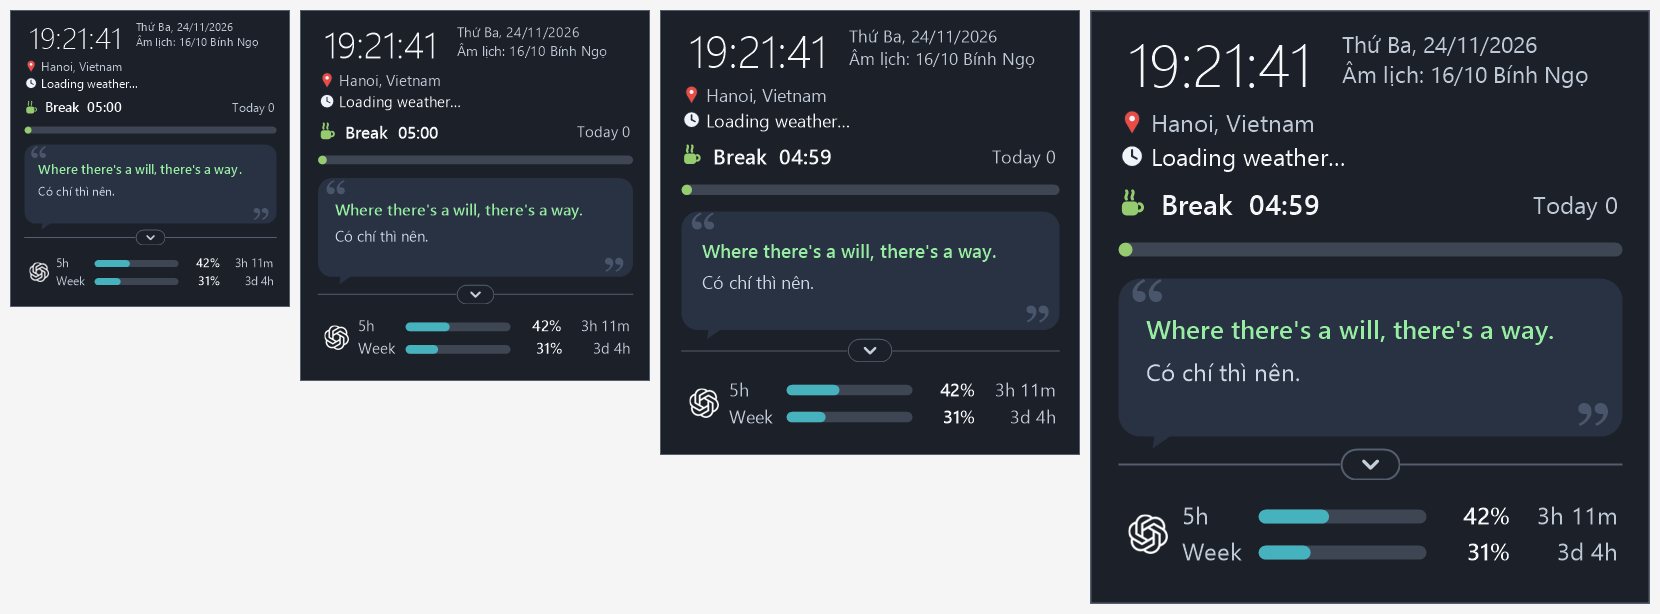
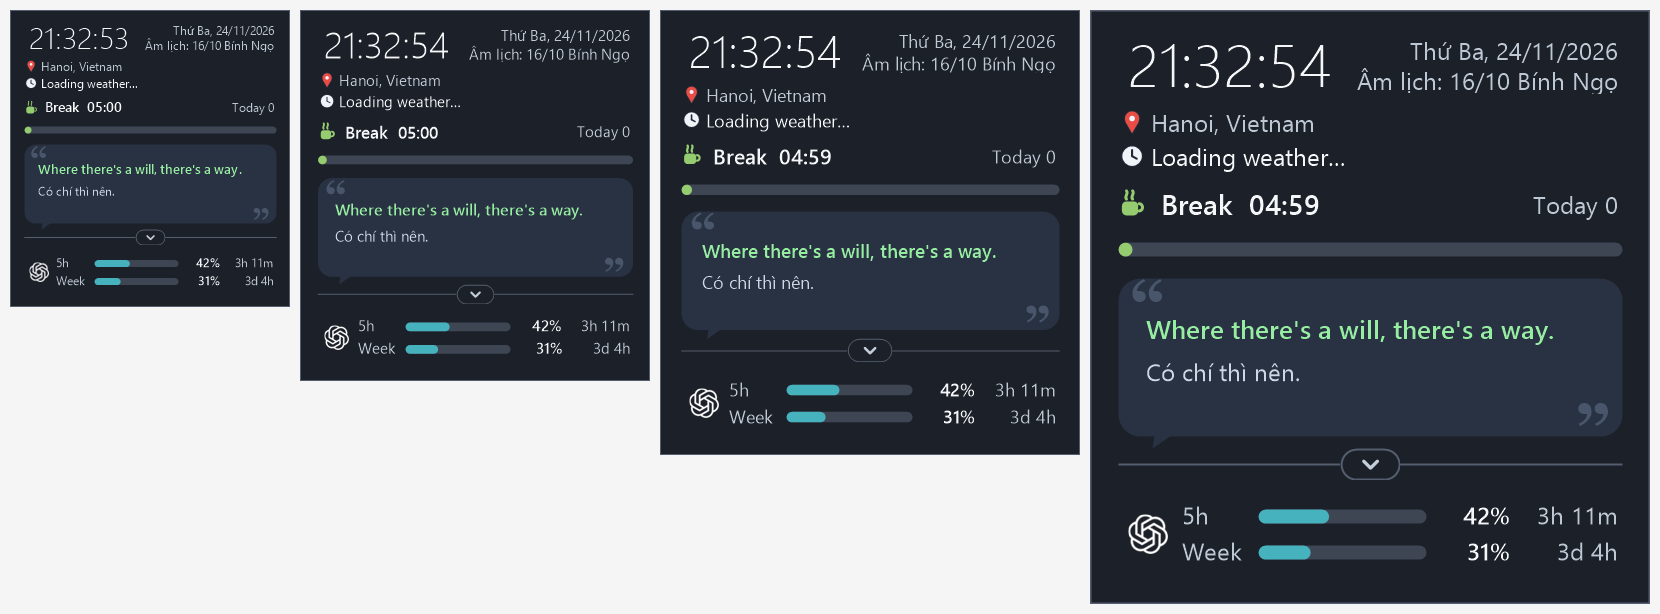
fix: put the date lines on the time row, right-aligned to the content margin
The two date lines are centred on the clock digits and end flush at the right margin (shrinking in steps keeps the right edge). Also: block instead of card in the layout setting text and a comment, and the changelog line about the focused block.

diff --git a/PomoQuote.Tests/DateBlockLayoutTests.cs b/PomoQuote.Tests/DateBlockLayoutTests.cs
@@ -1,0 +1,138 @@
+using System.Drawing;
+using System.Drawing.Text;
+using PomoQuote.Widget;
+
+namespace PomoQuote.Tests;
+
+/// <summary>The two date lines sit on the time row, centred on the clock digits, and end flush at the right content margin without touching the clock.</summary>
+public sealed class DateBlockLayoutTests
+{
+    [Theory]
+    [InlineData(90f)]
+    [InlineData(118f)]
+    [InlineData(130f)]
+    public void Both_lines_end_exactly_at_the_right_content_margin(float clockWidth)
+    {
+        for (var line = 0; line < 2; line++)
+        {
+            var rect = DateBlockLayout.Line(line, clockWidth);
+
+            Assert.Equal(UsageGeometry.WidgetWidth - UsageGeometry.Margin, rect.Right);
+            Assert.Equal(DateBlockLayout.RightEdge, rect.Right);
+            Assert.Equal(DateBlockLayout.Room(clockWidth), rect.Width);
+        }
+    }
+
+    [Fact]
+    public void The_right_edge_is_the_same_edge_as_the_quota_columns_and_the_timer_row()
+    {
+        var quotaRight = UsageGeometry.Columns(UsageGeometry.Margin + UsageGeometry.LogoColumn, UsageGeometry.CompactRowsWidth).Right;
+
+        Assert.Equal(quotaRight, DateBlockLayout.RightEdge);
+    }
+
+    [Fact]
+    public void The_block_is_centred_on_the_clock_digits_and_stays_inside_the_clock_row()
+    {
+        var first = DateBlockLayout.Line(0, 120);
+        var second = DateBlockLayout.Line(1, 120);
+
+        Assert.Equal(DateBlockLayout.DigitsCentre, (first.Top + second.Bottom) / 2f);
+        Assert.Equal(first.Bottom, second.Top); // two lines, no gap, no overlap
+        Assert.True(first.Top >= DateBlockLayout.ClockTop);
+        Assert.True(second.Bottom <= DateBlockLayout.ClockTop + DateBlockLayout.ClockHeight);
+    }
+
+    private static (float Left, float Right, float Top, float Bottom) Ink(Bitmap bitmap, Color background)
+    {
+        int left = bitmap.Width, right = -1, top = bitmap.Height, bottom = -1;
+        for (var y = 0; y < bitmap.Height; y++)
+        {
+            for (var x = 0; x < bitmap.Width; x++)
+            {
+                var p = bitmap.GetPixel(x, y);
+                if (Math.Abs(p.R - background.R) + Math.Abs(p.G - background.G) + Math.Abs(p.B - background.B) < 90) continue;
+                left = Math.Min(left, x);
+                right = Math.Max(right, x);
+                top = Math.Min(top, y);
+                bottom = Math.Max(bottom, y);
+            }
+        }
+
+        return (left, right + 1, top, bottom + 1);
+    }
+
+    [Theory]
+    [InlineData(1f)]
+    [InlineData(1.25f)]
+    [InlineData(1.5f)]
+    [InlineData(2f)]
+    public void On_screen_the_widest_clock_ends_before_the_date_starts_and_the_digits_centre_matches_the_block(float unit)
+    {
+        var background = Color.FromArgb(28, 32, 40);
+        using var probe = new Font("Segoe UI Light", 30f, FontStyle.Regular, GraphicsUnit.Pixel);
+        if (probe.Name != "Segoe UI Light") return; // the design font is not installed on this machine
+        using var bitmap = new Bitmap((int)(UsageGeometry.WidgetWidth * unit), (int)(60 * unit));
+        float widest;
+        using (var graphics = Graphics.FromImage(bitmap))
+        using (var font = new Font("Segoe UI Light", 30 * unit, FontStyle.Regular, GraphicsUnit.Pixel))
+        using (var format = new StringFormat(StringFormat.GenericTypographic) { FormatFlags = StringFormatFlags.NoWrap | StringFormatFlags.MeasureTrailingSpaces })
+        {
+            graphics.Clear(background);
+            graphics.TextRenderingHint = TextRenderingHint.AntiAliasGridFit;
+            widest = graphics.MeasureString("88:88:88", font, int.MaxValue, format).Width / unit;
+            using var brush = new SolidBrush(Color.White);
+            graphics.DrawString("88:88:88", font, brush, new RectangleF(UsageGeometry.Margin * unit, DateBlockLayout.ClockTop * unit, UsageGeometry.WidgetWidth * unit, DateBlockLayout.ClockHeight * unit), new StringFormat(StringFormatFlags.NoWrap));
+        }
+
+        var ink = Ink(bitmap, background);
+        var date = DateBlockLayout.Line(0, widest);
+
+        // The widest clock text ends before the date's room starts, at every scale.
+        Assert.True(ink.Right / unit < date.Left, $"the clock ink ends at {ink.Right / unit:0.0}, the date room starts at {date.Left:0.0}");
+        // The digits' centre is where the block is centred (within 2 logical px).
+        var centre = (ink.Top + ink.Bottom) / 2f / unit;
+        Assert.InRange(centre, DateBlockLayout.DigitsCentre - 2, DateBlockLayout.DigitsCentre + 2);
+    }
+
+    [Theory]
+    [InlineData(1f, 12f, "Thứ Ba, 24/11/2026")]
+    [InlineData(1.25f, 11.5f, "Âm lịch: 16/10 Bính Ngọ")]
+    [InlineData(1.5f, 10.5f, "Âm lịch: 1/6 nhuận Ất Tỵ")]
+    [InlineData(2f, 10f, "Chủ Nhật, 28/12/2026")]
+    public void Right_aligned_text_ends_flush_at_the_margin_at_any_size_and_scale(float unit, float pixels, string text)
+    {
+        var background = Color.FromArgb(28, 32, 40);
+        using var probe = new Font("Segoe UI", 12f, FontStyle.Regular, GraphicsUnit.Pixel);
+        if (probe.Name != "Segoe UI") return;
+        using var bitmap = new Bitmap((int)(UsageGeometry.WidgetWidth * unit), (int)(60 * unit));
+        var rect = DateBlockLayout.Line(0, 118);
+        using (var graphics = Graphics.FromImage(bitmap))
+        using (var font = new Font("Segoe UI", pixels * unit, FontStyle.Regular, GraphicsUnit.Pixel))
+        using (var brush = new SolidBrush(Color.White))
+        using (var format = new StringFormat(StringFormatFlags.NoWrap) { Trimming = StringTrimming.EllipsisCharacter, Alignment = StringAlignment.Far })
+        {
+            graphics.Clear(background);
+            graphics.TextRenderingHint = TextRenderingHint.AntiAliasGridFit;
+            graphics.DrawString(text, font, brush, new RectangleF(rect.X * unit, rect.Y * unit, rect.Width * unit, rect.Height * unit), format);
+        }
+
+        var ink = Ink(bitmap, background);
+
+        Assert.InRange(ink.Right / unit, DateBlockLayout.RightEdge - 3, DateBlockLayout.RightEdge + 0.5f); // flush with the right margin
+        Assert.True(ink.Left / unit >= rect.Left, "the text stays inside its room");
+        Assert.True(ink.Top / unit >= rect.Top - 1 && ink.Bottom / unit <= rect.Bottom + 1, "the text stays inside its row");
+    }
+
+    [Fact]
+    public void The_drawing_code_uses_the_layout_and_right_alignment()
+    {
+        var root = AppContext.BaseDirectory;
+        while (root is not null && !File.Exists(Path.Combine(root, "PomoQuote.csproj"))) root = Path.GetDirectoryName(root);
+        var source = File.ReadAllText(Path.Combine(root!, "WidgetView.cs"));
+
+        Assert.Contains("DateBlockLayout.Line(i, widestClockLogical)", source);
+        Assert.Contains("Alignment = StringAlignment.Far", source);
+        Assert.Contains("DateBlockLayout.Room(widestClockLogical)", source);
+    }
+}

diff --git a/WidgetView.cs b/WidgetView.cs
@@ -207,9 +207,9 @@ internal sealed partial class WidgetView : Control
     /// left at 280 px, then goes down to 10 px, and only a line that still does not fit ends with an ellipsis. The sizes are
     /// worked out when the text, the room or the display scale changes, not at every tick.
     /// </summary>
-    private void DrawDate(Graphics graphics, float u, float x, float right, StringFormat typographic)
+    private void DrawDate(Graphics graphics, float u, float widestClockLogical, StringFormat typographic)
     {
-        var room = right - x;
+        var room = DateBlockLayout.Room(widestClockLogical) * u;
         if (!ReferenceEquals(_measuredSolar, _solarLine) || !ReferenceEquals(_measuredLunar, _lunarLine) || _measuredRoom != room || _measuredUnit != u)
         {
             for (var i = 0; i < 2; i++)
@@ -229,13 +229,13 @@ internal sealed partial class WidgetView : Control
         }
 
         using var brush = new SolidBrush(SecondaryText);
-        using var ellipsis = new StringFormat(StringFormatFlags.NoWrap) { Trimming = StringTrimming.EllipsisCharacter };
-        var y = 9 * u;
+        // Right-aligned: every line ends flush at the right content margin, whatever size it was shrunk to.
+        using var ellipsis = new StringFormat(StringFormatFlags.NoWrap) { Trimming = StringTrimming.EllipsisCharacter, Alignment = StringAlignment.Far };
         for (var i = 0; i < 2; i++)
         {
             using var font = new Font("Segoe UI", _datePixels[i] * u, FontStyle.Regular, GraphicsUnit.Pixel);
-            graphics.DrawString(i == 0 ? _solarLine : _lunarLine, font, brush, new RectangleF(x, y, room, 15 * u), ellipsis);
-            y += 15 * u;
+            var line = DateBlockLayout.Line(i, widestClockLogical);
+            graphics.DrawString(i == 0 ? _solarLine : _lunarLine, font, brush, new RectangleF(line.X * u, line.Y * u, line.Width * u, line.Height * u), ellipsis);
         }
     }
 
@@ -302,8 +302,8 @@ internal sealed partial class WidgetView : Control
         {
             var time = TimeText();
             graphics.DrawString(time, timeFont, primary, new RectangleF(left, 6 * u, width, 40 * u), near);
-            var dateLeft = left + graphics.MeasureString("88:88:88", timeFont, int.MaxValue, typographic).Width + 4 * u; // the widest the clock gets: the date never moves or overlaps
-            DrawDate(graphics, u, dateLeft, left + width, typographic);
+            var widestClock = graphics.MeasureString("88:88:88", timeFont, int.MaxValue, typographic).Width / u; // the widest the clock gets: the date never moves or overlaps
+            DrawDate(graphics, u, widestClock, typographic);
         }
 
         // Weather: city on the left, temperature and conditions below

diff --git a/Widget/DateBlockLayout.cs b/Widget/DateBlockLayout.cs
@@ -1,0 +1,38 @@
+namespace PomoQuote.Widget;
+
+/// <summary>
+/// Where the two date lines go, in logical pixels at 100%: on the same row as the clock digits, centred on their height, with every
+/// line ending flush at the widget's right content margin (the same right edge as the other right-aligned content), and starting
+/// after the widest clock text so the date never overlaps the clock. Pure numbers, so the layout is tested.
+/// </summary>
+internal static class DateBlockLayout
+{
+    /// <summary>The clock text box (top and height) the time is drawn in.</summary>
+    public const float ClockTop = 6;
+
+    public const float ClockHeight = 40;
+
+    /// <summary>The vertical centre of the clock's digits, measured on the real font (Segoe UI Light 30 px): the date block is centred on it.</summary>
+    public const float DigitsCentre = 27;
+
+    public const float LineHeight = 15;
+
+    /// <summary>The gap kept between the widest clock text and the date.</summary>
+    public const float ClockGap = 4;
+
+    /// <summary>The right edge of the content: the widget width minus its margin.</summary>
+    public static float RightEdge => UsageGeometry.WidgetWidth - UsageGeometry.Margin;
+
+    /// <summary>The top of the two-line block: its centre is the centre of the digits.</summary>
+    public static float Top => DigitsCentre - LineHeight;
+
+    /// <summary>The room for a line: from after the widest clock text to the right margin.</summary>
+    public static float Room(float widestClockWidth) => RightEdge - (UsageGeometry.Margin + widestClockWidth + ClockGap);
+
+    /// <summary>The rectangle of line 0 (solar) or 1 (lunar); the text is right-aligned inside it, so it ends at <see cref="RightEdge"/>.</summary>
+    public static RectangleF Line(int index, float widestClockWidth)
+    {
+        var left = UsageGeometry.Margin + widestClockWidth + ClockGap;
+        return new RectangleF(left, Top + index * LineHeight, RightEdge - left, LineHeight);
+    }
+}

diff --git a/AiUsage/UsageStores.cs b/AiUsage/UsageStores.cs
@@ -21,7 +21,7 @@ public enum UsageDisplayMode
 /// <param name="AlertsEnabled">Whether a balloon is shown when a threshold is crossed.</param>
 /// <param name="Thresholds">Percent-used levels that raise a warning, ascending.</param>
 /// <param name="ClaudeRefreshAcknowledged">Whether the user has seen the note that "Refresh Claude now" spends a very small amount of quota.</param>
-/// <param name="Expanded">True for the Expanded layout (every provider as a card), false for Compact (one provider at a time).</param>
+/// <param name="Expanded">True for the Expanded layout (every provider as a block), false for Compact (one provider at a time).</param>
 /// <param name="SelectedProvider">The provider Compact shows (null: the first one).</param>
 internal sealed record UsageSettings(
     IReadOnlyList<string> EnabledProviders,

diff --git a/UsageSettingsDialog.cs b/UsageSettingsDialog.cs
@@ -113,7 +113,7 @@ internal sealed class UsageSettingsDialog : Form
         if (_order.Items.Count > 0) _order.SelectedIndex = 0;
 
         _mode = new ComboBox { DropDownStyle = ComboBoxStyle.DropDownList, Width = 360 };
-        _mode.Items.AddRange(["Compact: one provider at a time (scroll over its logo to switch)", "Expanded: every provider as a card"]);
+        _mode.Items.AddRange(["Compact: one provider at a time (scroll over its logo to switch)", "Expanded: every provider as a block"]);
         _mode.SelectedIndex = current.Expanded ? 1 : 0;
 
         _interval = new ComboBox { DropDownStyle = ComboBoxStyle.DropDownList, Width = 120 };

diff --git a/CHANGELOG.md b/CHANGELOG.md
@@ -11,8 +11,8 @@ and this project adheres to [Semantic Versioning](https://semver.org/spec/v2.0.0
 
 - **Widget redesign (AI Usage, quote, bars)**: the usage area has two layouts. **Compact** shows one provider at a time in at most three lines with its logo on the far left (name, plan, source and update time in the logo's tooltip; wheel over the logo, click or arrow keys to switch provider; a badge for error, stale data or near limit); **Expanded** shows every enabled provider as a plain block (full name, plan, every window, percent, countdown, source, update time; no card, border or background) and scrolls only its own area. A small arrow button, centred on a separator line under the quote bubble, switches the layout; the layout and the selected provider are remembered after a restart, and the provider order of Settings is used. New pill progress bars for the timer and the quotas (no stray dot at 0%), `N/A` instead of 0% when a quota is missing, a clock icon and tooltip for stale data, tooltips with the exact used, left and reset time, windows named by their real length, an "updating" mark for the provider being read (its last numbers stay), larger text (12 px), better contrast for the secondary text, and the sentence in a message-bubble card that wraps instead of cutting the text. The widget is now 280 px wide at 100%.
 - **Provider logos**: Codex shows the official OpenAI Blossom and Antigravity (packaged for later) the official Antigravity icon, as unmodified files that are cropped of their empty margins in memory and scaled; Claude Code shows an icon from the lobe-icons library (LobeHub, MIT), a community drawing of the Claude Code terminal mascot and not an official Anthropic asset (Anthropic's trademark guidelines require prior approval for its marks), with a neutral glyph as the fallback if that file is missing. The files are packaged with the program (nothing is fetched), with sources, terms and a trademark notice in `THIRD_PARTY_ASSETS.md`. The Settings dialog shows the same logos.
-- Widget details: the **timer bar has a tooltip** (phase, elapsed, remaining, exact end time); the quote text keeps **12 px or more** while its card can grow (clamp about 210 px; below 12 px only at the clamp, an ellipsis only past the smallest size) and the closing quotation mark has its own room under the last line; **Expanded is keyboard-operable** (Tab, Up/Down/Home/End, a focus ring, an accessible name and description per card); a drawing leak (one undisposed object per repaint in Expanded) is fixed and a test checks that the widget's drawing code disposes what it creates; **Help > About** shows the third-party marks notice (OpenAI, Anthropic, Google are not affiliated).
-- **Date after the clock**: the solar date in Vietnamese and the Vietnamese lunar date, 12 px text that steps down to 10 px only when a line does not fit (Hồ Ngọc Đức's algorithm at UTC+7, leap months marked) on two lines, worked out once a day. **Pomodoro state icon** (Idle, Work, Rest, with a pause mark) aligned with the weather icons. **Claude icon**: an icon from the lobe-icons library (LobeHub, MIT), a community drawing of the Claude Code terminal mascot and not an official Anthropic asset, with the neutral glyph as the fallback (delete the two `claude-on-*` files to use the neutral glyph instead); credits and the trademark notice are in `THIRD_PARTY_ASSETS.md`.
+- Widget details: the **timer bar has a tooltip** (phase, elapsed, remaining, exact end time); the quote text keeps **12 px or more** while its card can grow (clamp about 210 px; below 12 px only at the clamp, an ellipsis only past the smallest size) and the closing quotation mark has its own room under the last line; **Expanded is keyboard-operable** (Tab, Up/Down/Home/End, a focus ring, an accessible name and description per block, a dotted focus rectangle on the focused block); a drawing leak (one undisposed object per repaint in Expanded) is fixed and a test checks that the widget's drawing code disposes what it creates; **Help > About** shows the third-party marks notice (OpenAI, Anthropic, Google are not affiliated).
+- **Date on the time row**: the solar date in Vietnamese and the Vietnamese lunar date on two lines, centred on the clock digits and right-aligned to the widget's right content margin, 12 px text that steps down to 10 px only when a line does not fit (Hồ Ngọc Đức's algorithm at UTC+7, leap months marked) on two lines, worked out once a day. **Pomodoro state icon** (Idle, Work, Rest, with a pause mark) aligned with the weather icons. **Claude icon**: an icon from the lobe-icons library (LobeHub, MIT), a community drawing of the Claude Code terminal mascot and not an official Anthropic asset, with the neutral glyph as the fallback (delete the two `claude-on-*` files to use the neutral glyph instead); credits and the trademark notice are in `THIRD_PARTY_ASSETS.md`.
 - Widget feedback round: **no cards** in the AI usage area (Expanded is plain rows with only space between providers); a **separator line** under the quote bubble with the **Expand/Collapse button centred on it** (not in the right margin); Expanded **grows downward** so the clock and timer keep their place (only the usage area scrolls on a short screen); **logos** are cropped of their empty margins at load time and fill an about 20 px box at full brightness (the official files stay byte-identical); **timer colours** are no longer red/orange/yellow (those are for quota warnings only); kept numbers are **marked old** (clock icon, badge, amber note) when the latest read has no plan limits or no reply; long limit and plan names end with an ellipsis and a tooltip.
 - Settings > AI Usage: the display mode (bars or percent only) is replaced by the layout (Compact or Expanded); an old `usage.json` opens in Compact.
 - **Claude bridge safety** (fixes found in the review of the Claude provider): the status line no longer points at the folder the app runs from. Setting the bridge up copies its program to `%LocalAppData%\PomoQuote\bridge\` (refreshed after an update) and is refused unless the app runs as `PomoQuote.exe`. The installed command first tests that program and otherwise runs your original status line directly, so a moved or deleted app cannot take your status line down. When PomoQuote starts it checks the bridge once; a missing program, a damaged saved command or a shell mismatch (Git Bash installed or removed since) shows a notification and a *bridge missing* state on the Claude strip, and **Check** also reports them.

diff --git a/README.md b/README.md
@@ -72,7 +72,7 @@ The widget (280 logical px wide, scaled for 100 to 200% display scaling) keeps i
 
 ### The clock, the date and the Pomodoro icon
 
-- **Date after the clock, on two lines:** the solar date in Vietnamese (`Thứ Ba, 24/11/2026`) and the Vietnamese lunar date (`Âm lịch: 16/10 Bính Ngọ`, a leap month is marked `nhuận`, the year is named by its heavenly stem and earthly branch). The solar date is your PC's local date. The lunar date is computed in the program (no network, no data table) with the astronomical algorithm of **Hồ Ngọc Đức** (new moons and the sun's longitude after Jean Meeus) at **UTC+7**, which is what makes it the Vietnamese calendar rather than the Chinese one. It is worked out once a day: when the local date changes (midnight, or a wake-up from sleep on another day) and not at every clock tick. The text is 12 px (never below 11.5 px where the room allows) and shrinks step by step down to 10 px only when a long line needs it (a leap month); it never overlaps the clock.
+- **Date on the time row, on two lines, right-aligned:** the two lines are centred on the height of the clock digits and end flush at the widget's right content margin (the same right edge as the quota columns), in the room between the clock and that margin; the solar date in Vietnamese (`Thứ Ba, 24/11/2026`) and the Vietnamese lunar date (`Âm lịch: 16/10 Bính Ngọ`, a leap month is marked `nhuận`, the year is named by its heavenly stem and earthly branch). The solar date is your PC's local date. The lunar date is computed in the program (no network, no data table) with the astronomical algorithm of **Hồ Ngọc Đức** (new moons and the sun's longitude after Jean Meeus) at **UTC+7**, which is what makes it the Vietnamese calendar rather than the Chinese one. It is worked out once a day: when the local date changes (midnight, or a wake-up from sleep on another day) and not at every clock tick. The text is 12 px (never below 11.5 px where the room allows) and shrinks step by step down to 10 px only when a long line needs it (a leap month); it never overlaps the clock.
 - **Pomodoro state icon** next to the timer, in the same column, size (14 px) and gap as the weather icons: a stopwatch outline for **Idle** (not started), a filled stopwatch for **Work**, a cup for **Rest** (short and long break; the phase colour tells them apart), and a small pause mark over the phase icon while the timer is **paused**. The accessible name says it ("Pomodoro work, paused"), and the timer bar tooltip is unchanged.
 
 ![The Pomodoro icon in its states: idle, work, work paused, rest, rest paused](Assets/AiUsage/preview-pomodoro-states.png)
